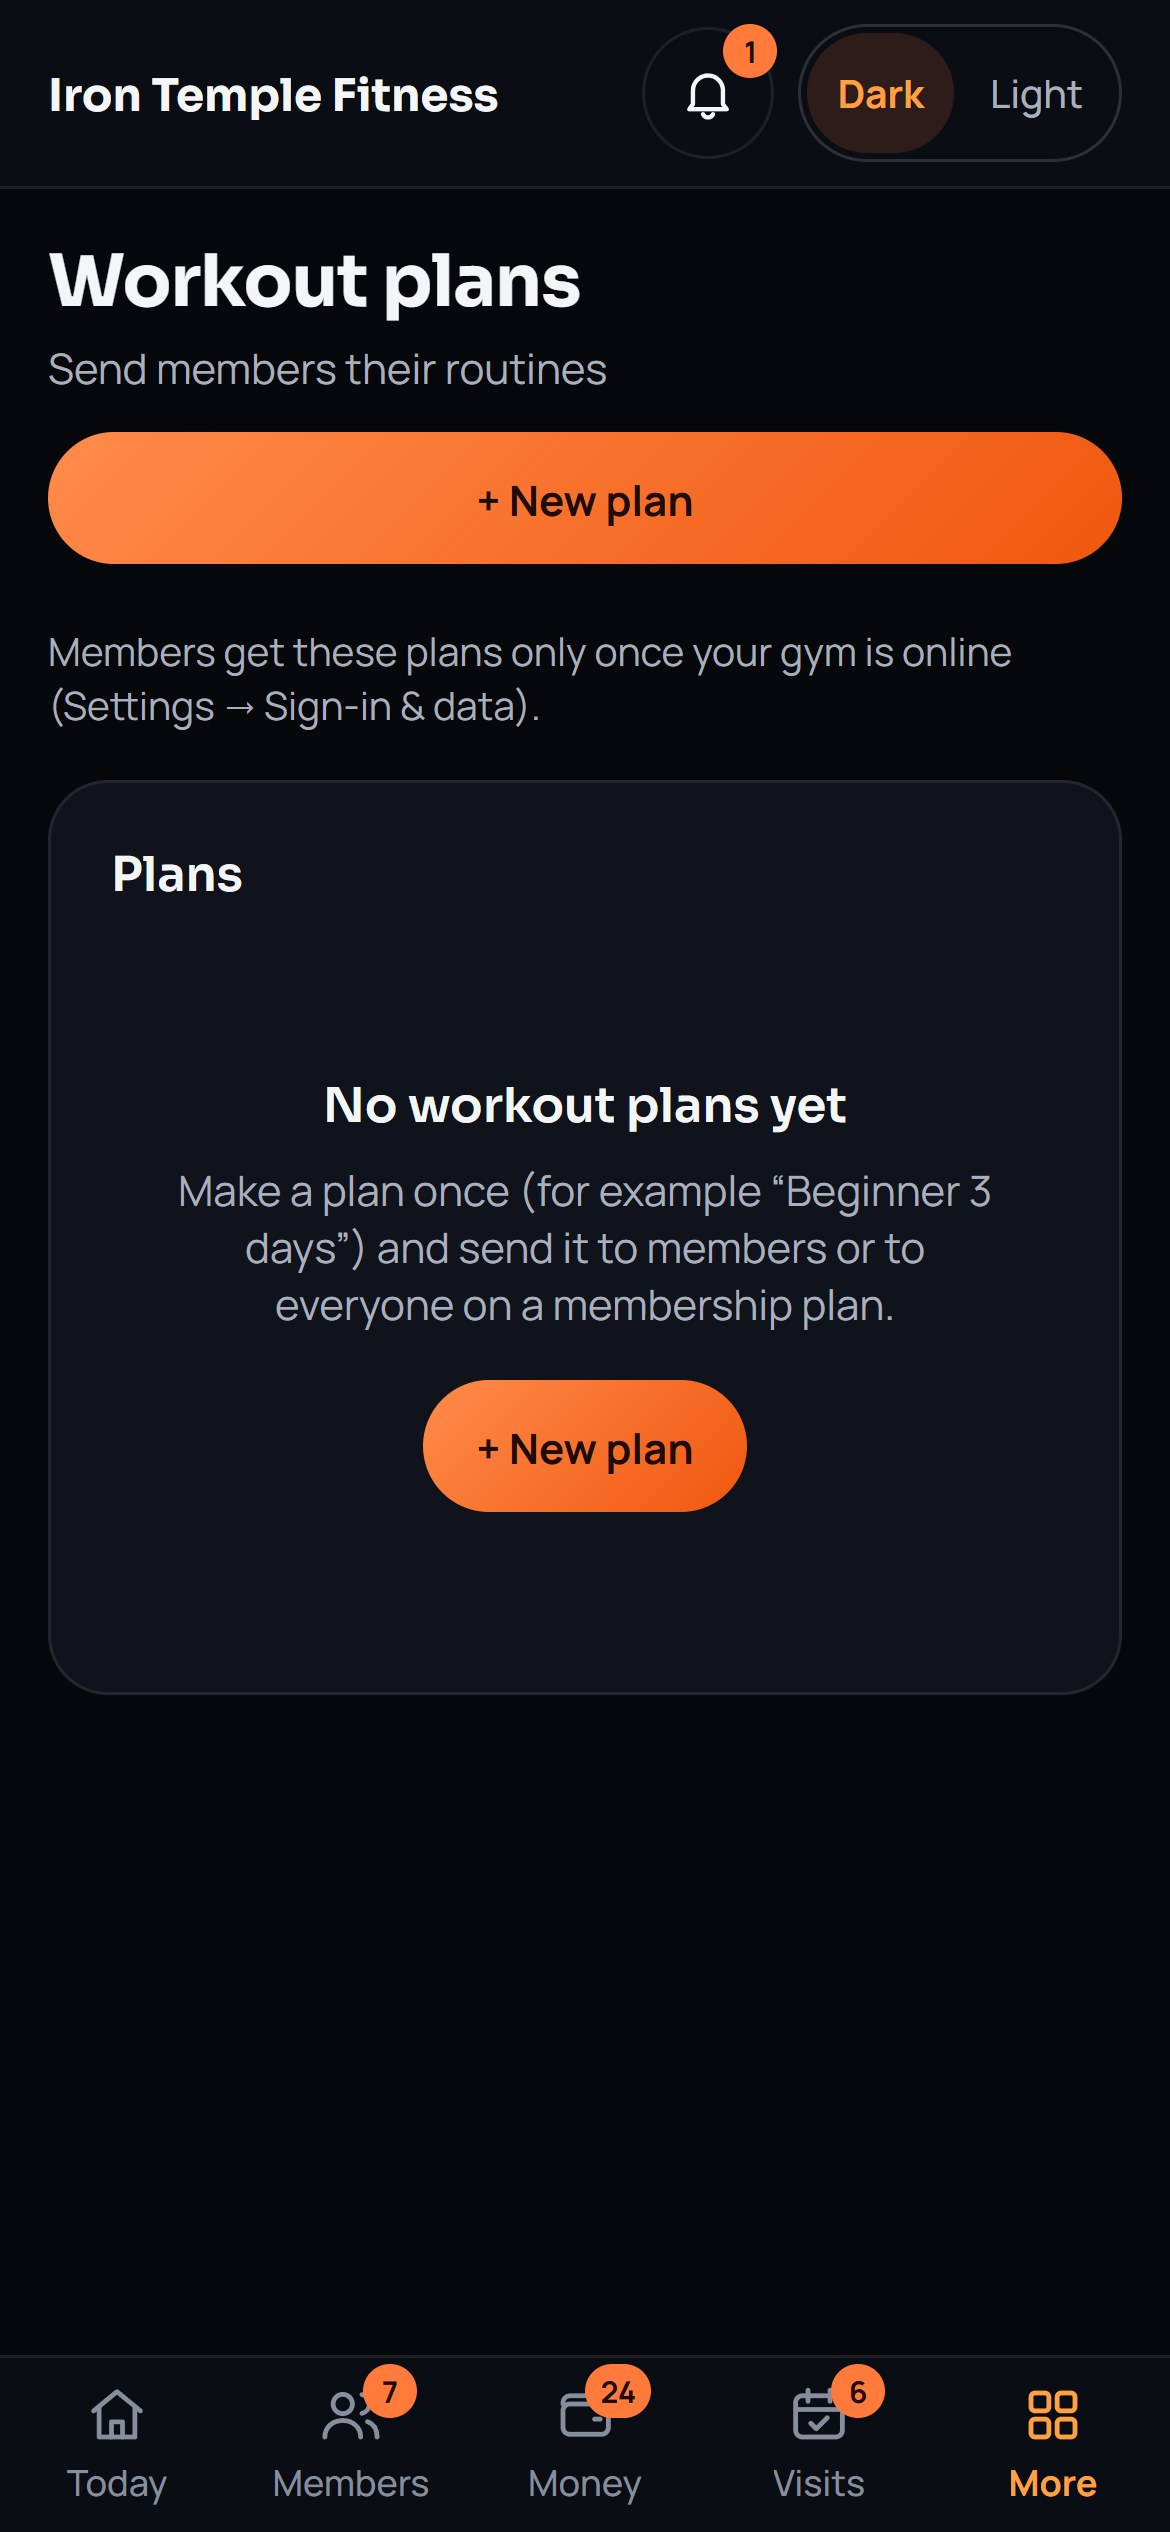
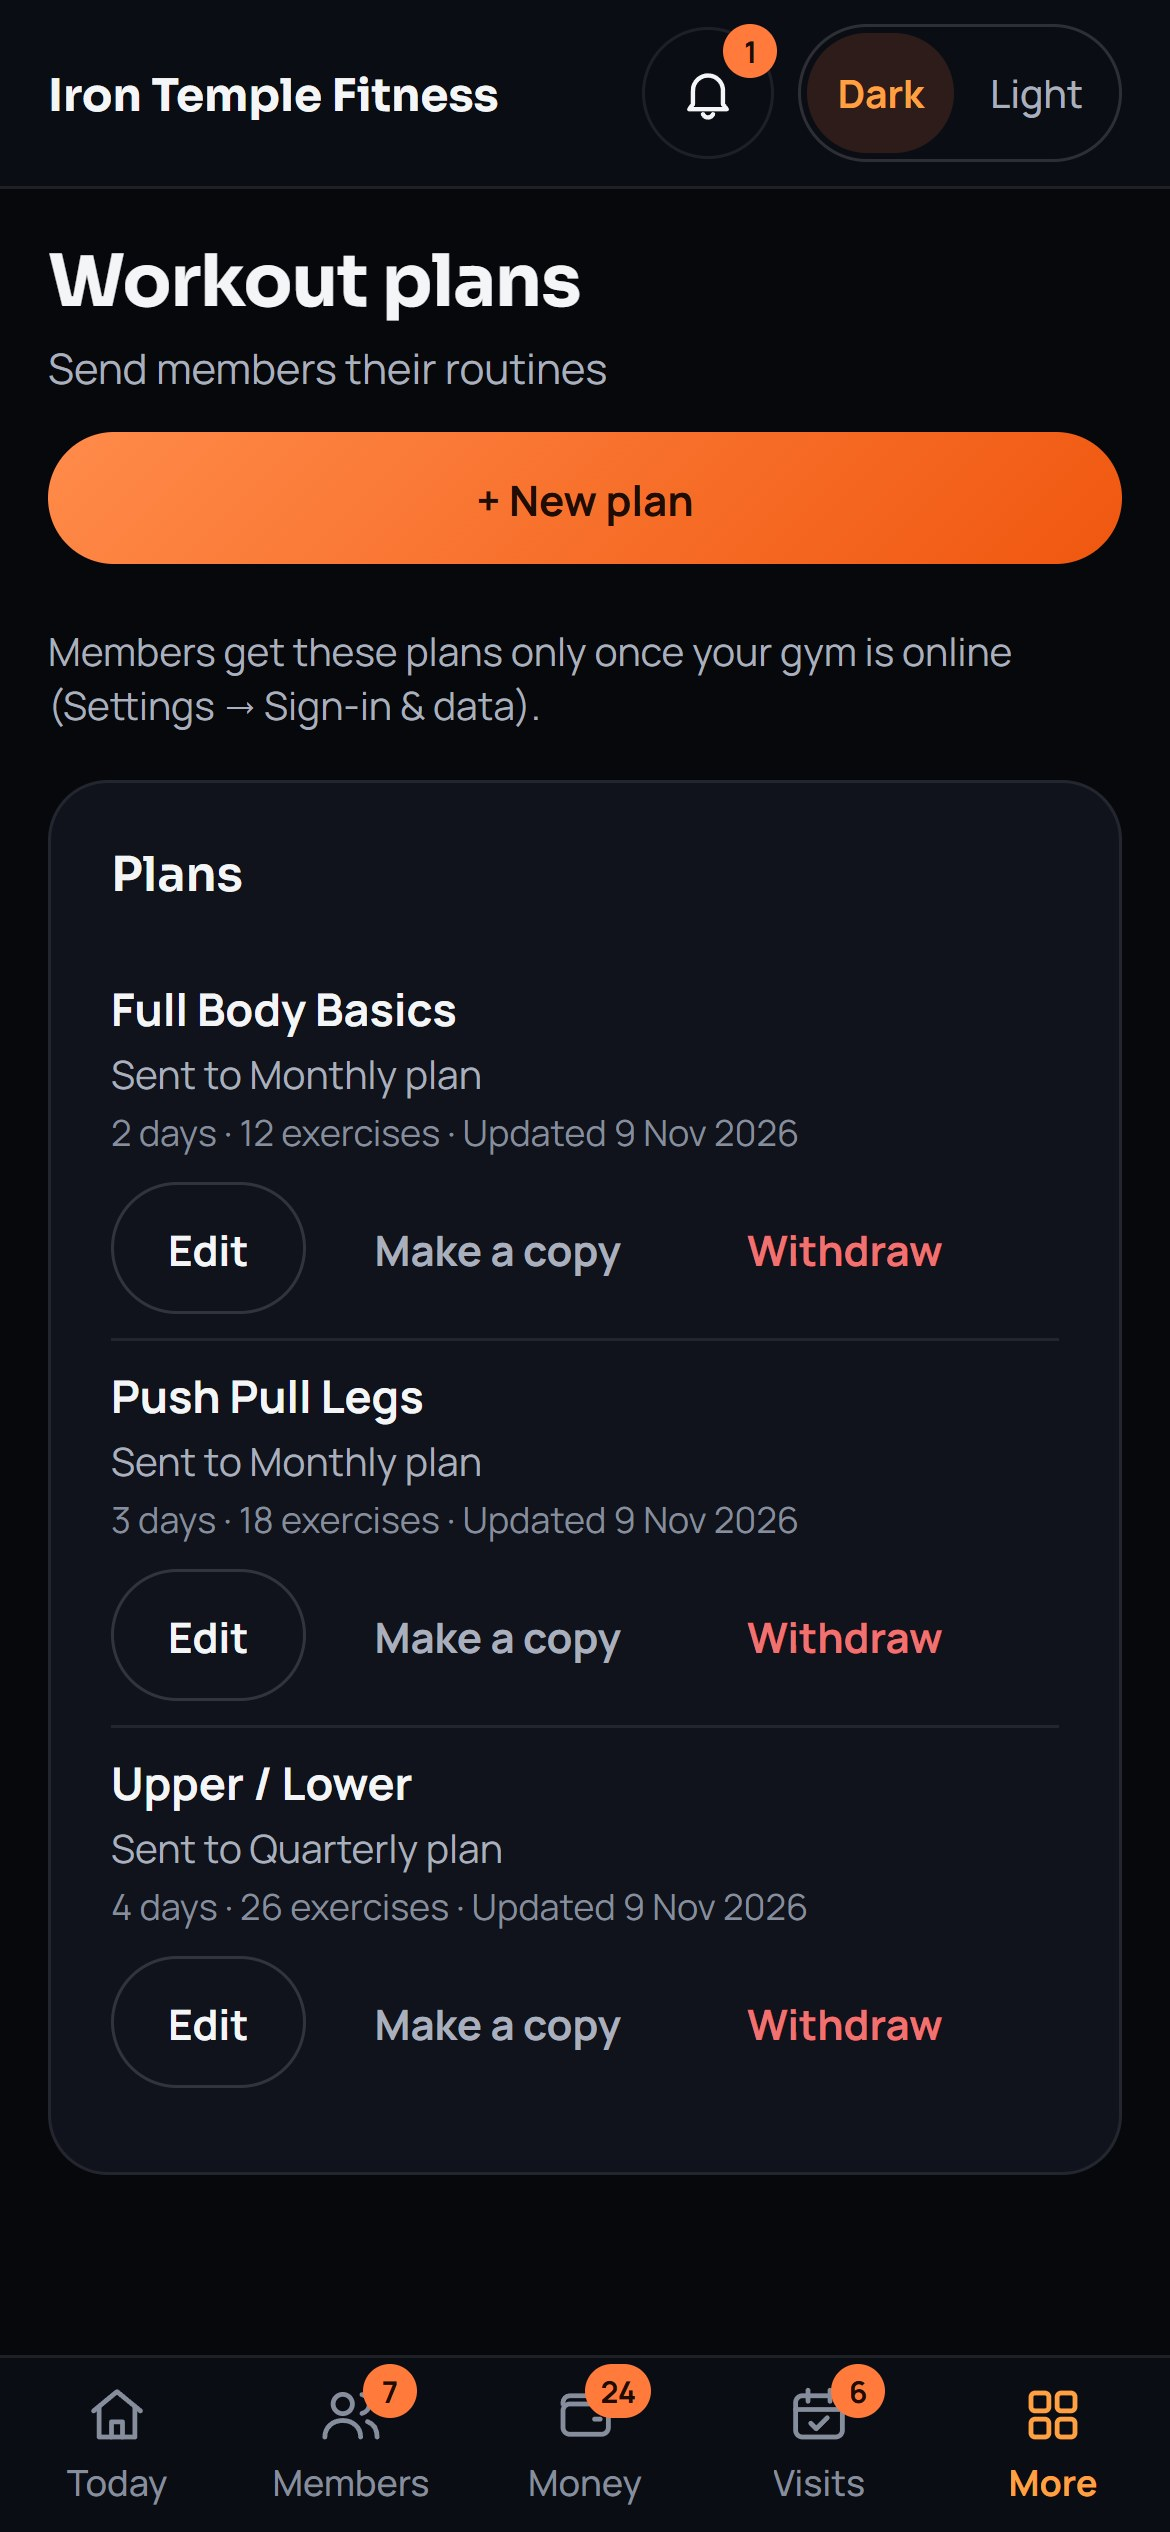
Owner ads: fixes from the fresh-eyes review
- Ad 05 shows a real filled plan list (three plans made in the demo gym), and its tag is short enough for the feed pictures.
- Ads 03 and 05 lose the floating squares and plan cards that read as placeholders.
- No captions under the hook: the headline already says it, so the first 2 seconds carry fewer words.
- Ad 02: "Free app for your members" replaces the unclear "Your members pay nothing"; plainer price-card line.

Changed region(s): [[0.0923, 0.3744, 0.8308, 0.6552], [0.0923, 0.6864, 0.8, 0.8112]]

diff --git a/marketing/owner-ads/src/ads.tsx b/marketing/owner-ads/src/ads.tsx
@@ -58,34 +58,9 @@ const PriceTag: React.FC<{ t: Timing }> = ({ t }) => {
           <div style={{ fontWeight: 700, fontSize: 30, color: C.grey, letterSpacing: '0.04em', textTransform: 'uppercase' }}>MettleUp Starter</div>
           <div style={{ fontWeight: 800, fontSize: 104, lineHeight: 1.05, letterSpacing: '-0.03em', color: C.molten, textShadow: '0 0 30px rgba(255,138,76,0.35)' }}>₹999</div>
           <div style={{ fontWeight: 700, fontSize: 34, color: C.iron }}>a month</div>
-          <div style={{ marginTop: 16, fontWeight: 600, fontSize: 25, lineHeight: 1.3, color: C.grey }}>Less than one member, if a member pays you more than ₹999 a month.</div>
+          <div style={{ marginTop: 16, fontWeight: 600, fontSize: 25, lineHeight: 1.3, color: C.grey }}>Less than one member's fee, when a member pays you over ₹999 a month.</div>
         </div>
       </div>
-    </Layer>
-  );
-};
-
-/* 03: the gym's own colours dropping into its app: swatches and a logo slot orbit the phone. */
-const Swatches: React.FC<{ t: Timing }> = ({ t }) => {
-  const f = useCurrentFrame();
-  const at = t.lines[1].from;
-  if (f < at || f > t.C + 20) return null;
-  const e = interpolate(f, [at, at + 24], [0, 1], easeOpts);
-  const out = interpolate(f, [t.C, t.C + 18], [1, 0], clampOpts);
-  const cols = ['#2E7DFF', '#16B364', '#E5484D', C.forge];
-  return (
-    <Layer>
-      {cols.map((c, i) => {
-        const ang = (i / cols.length) * Math.PI * 2 + f / 40;
-        const r = 420 * e;
-        return (
-          <div key={c} style={{
-            position: 'absolute', transform: `translate3d(${Math.cos(ang) * r}px, ${170 + Math.sin(ang) * r * 0.55}px, ${Math.sin(ang) * 260}px)`,
-            width: 104, height: 104, borderRadius: 30, background: c, opacity: e * out,
-            boxShadow: `0 20px 50px rgba(0,0,0,0.6), 0 0 40px ${c}66, inset 0 2px 0 rgba(255,255,255,0.35)`,
-          }} />
-        );
-      })}
     </Layer>
   );
 };
@@ -127,41 +102,6 @@ const Sheets: React.FC<{ t: Timing }> = ({ t }) => {
           </div>
         </div>
       </div>
-    </Layer>
-  );
-};
-
-/* 05: the gym's plans as forged cards, passing from the old screen to the new one. */
-const PlanCards: React.FC<{ t: Timing }> = ({ t }) => {
-  const f = useCurrentFrame();
-  const at = t.C + 10;
-  if (f < t.C - 8 || f > t.D + 6) return null;
-  const names = ['Beginner 3 days', 'Push Pull Legs', 'Upper / Lower'];
-  const show = interpolate(f, [t.C - 8, t.C + 8], [0, 1], easeOpts) * interpolate(f, [t.D - 6, t.D + 6], [1, 0], clampOpts);
-  return (
-    <Layer>
-      {names.map((n, i) => {
-        const go = interpolate(f, [at + i * 5, at + i * 5 + 26], [0, 1], easeOpts);
-        const p = {
-          x: -330 + 440 * go, y: -10 + i * 104 + go * 160, z: 260 + Math.sin(go * Math.PI) * 220 - go * 200,
-          rx: 0, ry: 18 - 30 * go, rz: -4 + 6 * go, s: 1,
-        };
-        return (
-          <div key={n} style={{ position: 'absolute', transform: `${tf(p)} scale(${1 - 0.45 * go})`, opacity: show * interpolate(go, [0.75, 1], [1, 0], clampOpts) }}>
-            <div style={{
-              width: 400, padding: '20px 26px', borderRadius: 22, display: 'flex', alignItems: 'center', gap: 18,
-              background: 'linear-gradient(160deg, #353A43, #1A1E24)', border: '1.5px solid rgba(255,255,255,0.16)',
-              boxShadow: '0 30px 70px rgba(0,0,0,0.7), 0 0 30px rgba(255,122,59,0.18)', fontFamily: MANROPE,
-            }}>
-              <div style={{ width: 54, height: 54, borderRadius: 14, background: `linear-gradient(180deg, #FFB07F, ${C.forge})` }} />
-              <div>
-                <div style={{ fontWeight: 800, fontSize: 32, color: C.iron }}>{n}</div>
-                <div style={{ fontWeight: 600, fontSize: 22, color: C.grey }}>Workout plan</div>
-              </div>
-            </div>
-          </div>
-        );
-      })}
     </Layer>
   );
 };
@@ -222,7 +162,7 @@ export const SPECS: AdSpec[] = [
         { line: 3, at: 0.02, until: 0.6, rect: { x: 0.03, y: 0.325, w: 0.94, h: 0.27 }, label: "Last time's weight", side: 'left' },
       ],
     },
-    motif: Swatches,
+    // No motif: loose colour squares read as leftover placeholders (fresh-eyes review, 9 Nov).
   },
   {
     id: '04-excel-move',
@@ -246,9 +186,9 @@ export const SPECS: AdSpec[] = [
     desk: 'screens/desk-today.jpg',
     first: {
       src: 'screens/phone-workouts.jpg',
-      tag: 'Example gym · Trainer plans: on Pro',
+      tag: 'Example gym · on Pro',
       spots: [
-        { line: 2, at: 0.1, until: 1.05, rect: { x: 0.08, y: 0.42, w: 0.84, h: 0.2 }, label: 'Plans live in your gym', side: 'right' },
+        { line: 2, at: 0.1, until: 1.05, rect: { x: 0.04, y: 0.31, w: 0.92, h: 0.55 }, label: 'Plans live in your gym', side: 'right' },
       ],
     },
     second: {
@@ -259,6 +199,6 @@ export const SPECS: AdSpec[] = [
         { line: 3, at: 0.2, until: 1.0, rect: { x: 0.03, y: 0.595, w: 0.94, h: 0.075 }, label: "Trainer's plans", side: 'left' },
       ],
     },
-    motif: PlanCards,
+    // No motif: floating plan cards read as ghost text over the member screen (fresh-eyes review, 9 Nov).
   },
 ];

diff --git a/marketing/owner-ads/src/Film.tsx b/marketing/owner-ads/src/Film.tsx
@@ -113,7 +113,8 @@ export const Film: React.FC<{ id: string }> = ({ id }) => {
       <Headline lines={ad.payoff} accent={[1]} start={B + 4} end={D - 4} size={86} />
 
       {/* captions: low under the hook, then just under the payoff so the screens stay clear */}
-      <Captions lines={ad.lines} timing={t.lines} top={f < B ? 268 + ad.hook.length * 108 + 104 : 474} hideAfter={D + 6} />
+      {/* No captions under the hook: the headline already says line 1 (fewer words in the first 2 s). */}
+      {f >= B && <Captions lines={ad.lines} timing={t.lines} top={474} hideAfter={D + 6} />}
       <Streaks at={B - 4} />
       <Streaks at={Cc - 4} />
       <EndCard at={D} />
